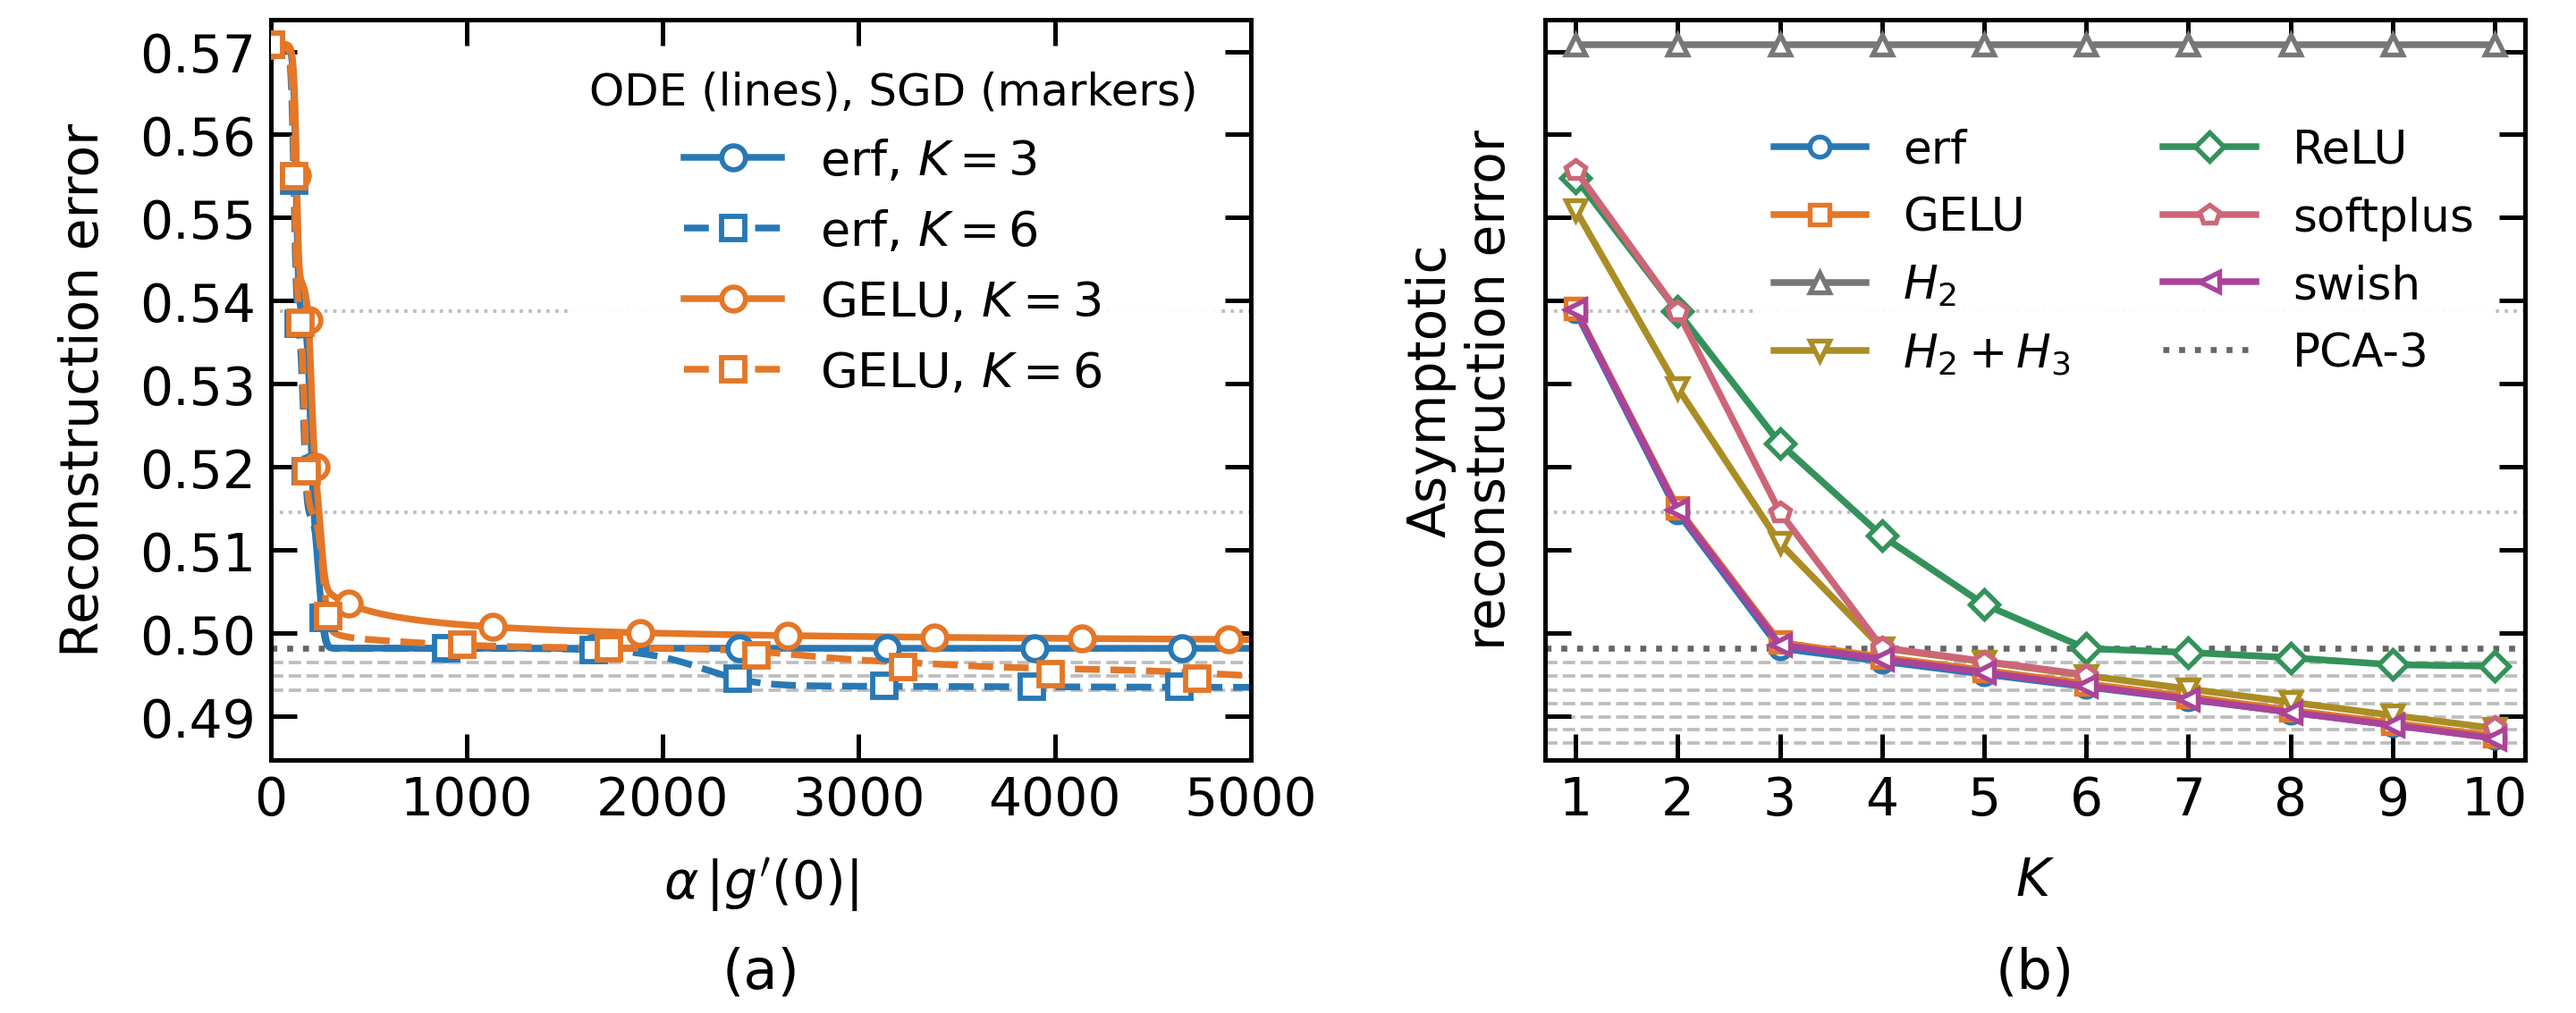
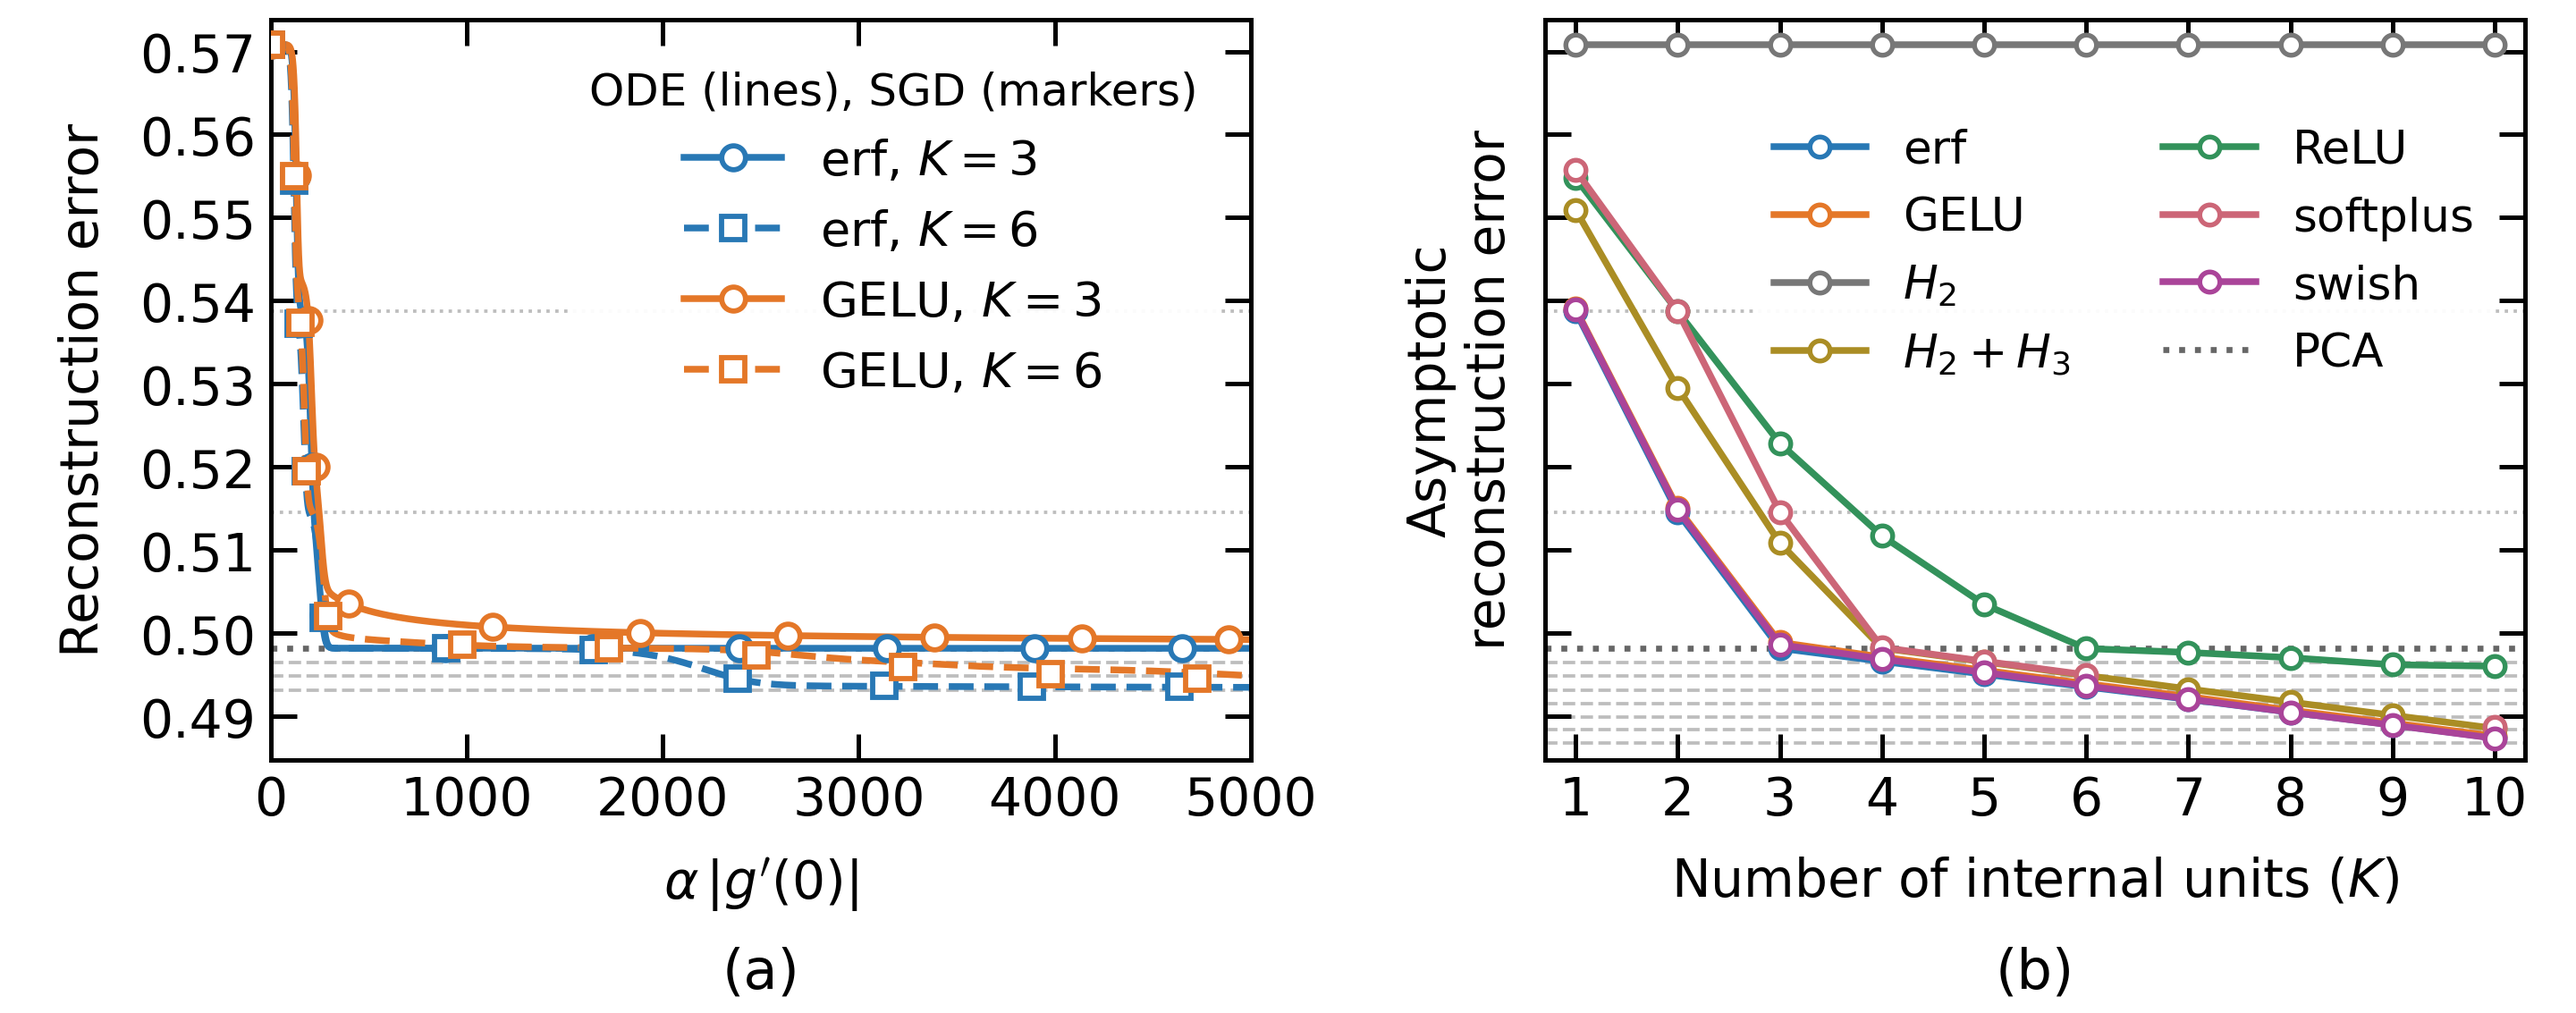
fixed generalization plot

diff --git a/plot/plot_paper_generalization.py b/plot/plot_paper_generalization.py
@@ -61,11 +61,10 @@ COLORS = {
     "erf": "#2878B5", "gelu": "#E47728", "h2": "#777777", "h3_h2": "#AA8D24",
     "relu": "#33925B", "softplus": "#CC6677", "swish": "#AA4499",
 }
-MARKERS = {"erf": "o", "gelu": "s", "h2": "^", "h3_h2": "v",
-           "relu": "D", "softplus": "p", "swish": "<"}
 PC_RANKS = list(range(1, 11))
 LINE_WIDTH = 0.9
-MARKER_SIZE = 2.7
+SWEEP_MARKER = "o"
+SWEEP_MARKER_SIZE = 2.7
 
 
 def load_config(activation, width):
@@ -123,7 +122,7 @@ def main():
                 print(f"{activation}, K={width}: evaluation at alpha={SWEEP_ALPHA[activation]} missing")
             errors.append(error)
         sweep_axis.plot(K_VALUES, errors, color=COLORS[activation], label=LABELS[activation],
-                        marker=MARKERS[activation], markersize=MARKER_SIZE,
+                        marker=SWEEP_MARKER, markersize=SWEEP_MARKER_SIZE,
                         markerfacecolor="white", markeredgewidth=0.65, linewidth=LINE_WIDTH)
 
     learning_handles = []
@@ -171,11 +170,11 @@ def main():
             axis.axhline(pc_error, color="0.40" if rank == SPIKE_COUNT else "0.74",
                          linestyle=":" if rank <= SPIKE_COUNT else "--",
                          linewidth=0.8 if rank == SPIKE_COUNT else 0.45, zorder=0,
-                         label=f"PCA-{rank}" if axis is sweep_axis and rank == SPIKE_COUNT else "_nolegend_")
+                         label="PCA" if axis is sweep_axis and rank == SPIKE_COUNT else "_nolegend_")
 
     learning_axis.set(xlabel=r"$\alpha\,|g'(0)|$", ylabel="Reconstruction error",
                       xlim=(0, X_MAX))
-    sweep_axis.set(xlabel=r"$K$", ylabel="Asymptotic\nreconstruction error",
+    sweep_axis.set(xlabel=r"Number of internal units ($K$)", ylabel="Asymptotic\nreconstruction error",
                    xticks=K_VALUES, xlim=(min(K_VALUES) - 0.3, max(K_VALUES) + 0.3))
     lower = 0.5 * eigenvalues[:-max(PC_RANKS)].sum() / len(eigenvalues) - Y_PADDING[0]
     upper = 0.5 * eigenvalues.mean() + Y_PADDING[1]
